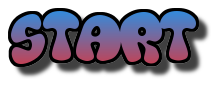
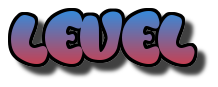
add menu_scene

diff --git a/sokuban/source/menu_scene.cpp b/sokuban/source/menu_scene.cpp
@@ -1,0 +1,55 @@
+
+#include "gamestate.hpp"
+#include "menu_scene.hpp"
+
+void StartButton::Execute() {
+}
+
+void LevelSelectButton::Execute() {
+}
+
+
+MenuScene::MenuScene(GameState *state_)
+    : Scene(state_)
+    , startBtn(state_, this)
+    ,selectBtn(state_,this){
+        // thay bag startBtn voi selectBtn
+    startBtn.SetSize({200, 100});
+    startBtn.SetPosition({ 0, 0 });
+    selectBtn.SetSize({ 200, 100 });
+    selectBtn.SetPosition({ 300, 300 });
+
+}
+
+MenuScene::~MenuScene() {
+}
+void MenuScene::Update(const SDL_Event &event) {
+    switch( event.type ){
+    case SDL_KEYDOWN:
+    {
+        break;
+    }
+    case SDL_MOUSEBUTTONDOWN:{
+        int x,y;
+        SDL_GetMouseState(&x, &y);
+
+        //restartBtn.OnMousePressed(event.button.button, x, y);
+        // goi ham OnMousePressed cung tham so cua 2 bien bbtn
+        break;
+    }
+
+    case SDL_KEYUP:
+        //sprintf( "Up\n" );
+        break;
+
+
+    default:
+        break;
+    }
+}
+
+void MenuScene::Draw() {
+    // ve 2
+    startBtn.Draw();
+    selectBtn.Draw();
+}

diff --git a/sokuban/source/menu_scene.hpp b/sokuban/source/menu_scene.hpp
@@ -1,0 +1,48 @@
+#pragma once
+
+#include "gamestate.hpp"
+#include "button.hpp"
+
+class MenuScene;
+
+class StartButton:public Button{
+private:
+    MenuScene *scene;
+
+public:
+    StartButton(GameState *state_,MenuScene*scene_)
+        : Button(state_, "start.png") {
+        scene = scene_;
+    }
+
+    void Execute() override;
+};
+
+class LevelSelectButton:public Button{
+private:
+    MenuScene *scene;
+
+public:
+    LevelSelectButton(GameState *state_,MenuScene*scene_)
+        : Button(state_, "level.png") {
+        scene = scene_;
+    }
+
+    void Execute() override;
+};
+
+class MenuScene:public Scene{
+private :
+    SDL_Texture *backgroundImg ;
+    LevelSelectButton selectBtn;
+    StartButton startBtn;
+
+public:
+    MenuScene(GameState *state_);
+    ~MenuScene();
+
+    void Update(const SDL_Event &evt) override;
+    void Draw() override;
+    void SwitchMap();
+
+};

diff --git a/sokuban/source/gamestate.cpp b/sokuban/source/gamestate.cpp
@@ -11,6 +11,7 @@ GameState::GameState() {
     manager = TextureManager(renderer);
 
     gameScene = new GameScene(this);
+    menuScene= new MenuScene(this);
 }
 
 GameState::~GameState() {
@@ -20,6 +21,7 @@ GameState::~GameState() {
     SDL_Quit();
 
     delete gameScene;
+    delete menuScene;
 }
 
 SDL_Renderer *GameState::get_renderer() {
@@ -38,10 +40,13 @@ void GameState::loop() {
 
       while( SDL_PollEvent( &event ) ){
         /* We are only worried about SDL_KEYDOWN and SDL_KEYUP events */
-        gameScene->Update(event);
+        //gameScene->Update(event);
+        menuScene->Update(event);
+
       }
 
-      gameScene->Draw();
+      //gameScene->Draw();
+      menuScene->Draw();
       SDL_RenderPresent(renderer);
   }
 

diff --git a/sokuban/source/gamestate.hpp b/sokuban/source/gamestate.hpp
@@ -2,12 +2,14 @@
 #include <sdl2/sdl.h>
 #include "resman.hpp"
 #include "gamescene.hpp"
+#include "menu_scene.hpp"
 
 struct GameState {
     SDL_Window *window;
     SDL_Renderer *renderer;
     TextureManager manager;
     GameScene *gameScene;
+    MenuScene *menuScene;
 
 public:
     GameState();
